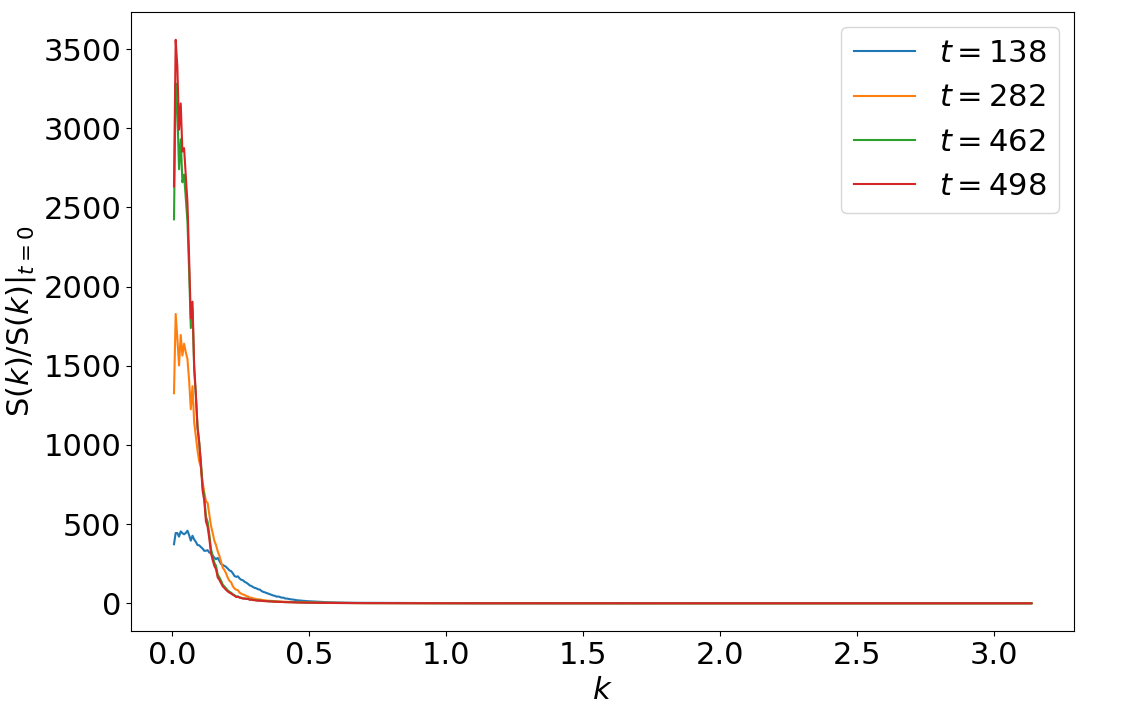
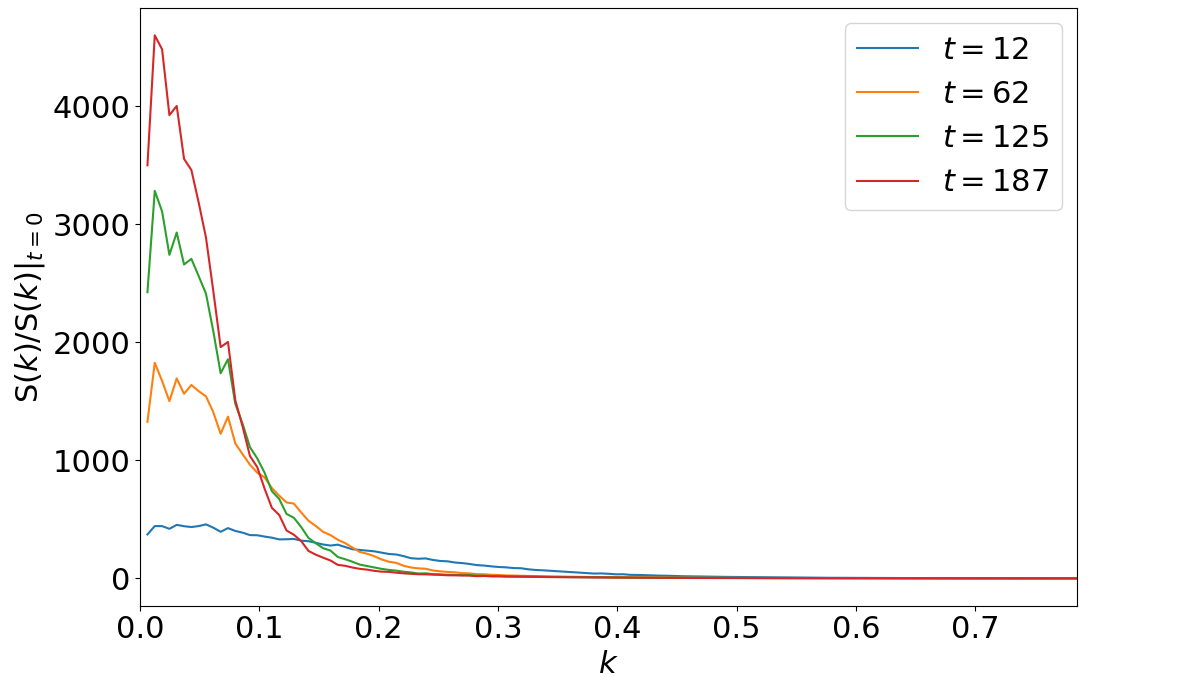
Last Data processed and saved figures
Need to emphasise to Mike and in our discussion that repeats over initial conditions are super important. Results vary a lot.
I checked by hand on N=64 and between 2 runs, results only stop varying to 3dps by 160 repeats or so. But we will have to run with what we have at this point - just report limitations

diff --git a/Codes for combined figures/L vs t combined.py b/Codes for combined figures/L vs t combined.py
@@ -56,6 +56,7 @@ axSn1 = figSn1.gca()
 axSn1.tick_params(labelsize=22)
 axSn1.set_xlabel(r"$k$", fontsize=22)
 axSn1.set_ylabel(r"S($k$)$/$S($k$)$|_{t=0}$", fontsize=22)
+axSn1.set_xlim(0, np.pi/4)
 plotted_ts1 = [1, 5, 10, 15]   # Update once data is produced
 for i in plotted_ts1:   # Update once data is produced
     #time = str(int(nth*(i-1) + t0)) + " MCS"
@@ -69,10 +70,11 @@ axSn2 = figSn2.gca()
 axSn2.tick_params(labelsize=22)
 axSn2.set_xlabel(r"$k$", fontsize=22)
 axSn2.set_ylabel(r"S($k$)$/$S($k$)$|_{t=0}$", fontsize=22)
-plotted_ts2 = [1, 5, 10, 11]   # Update once data is produced
+axSn2.set_xlim(0, np.pi/4)
+plotted_ts2 = [1, 5, 10, 15]   # Update once data is produced
 for i in plotted_ts2:   # Update once data is produced
     #time = str(int(nth*(i-1) + t0)) + " MCS"
-    time2 = str(int(t_vals1[i]))
+    time2 = str(int(t_vals2[i]))
     axSn2.plot(kvals2, avgSk_norm2[:, i], label=r"$t=$"+time2)
 
 
@@ -101,7 +103,6 @@ print(f'with R-value of {np.round(rval2, 4)}')
 print('\n')
 ax.plot(np.log(t_vals2[1:]), c2 + m2* np.log(t_vals2[1:]), '-.b', label=r'GLT gradient={:.4f} $\pm$ {:.4f}'.format(np.round(m2, 4), np.round(std2, 4)))
 
-
 # plot S(k) rescaled for proposed universal scaling relation
 # for MC
 figUni1 = plt.figure(figsize=(10, 7))
@@ -109,6 +110,7 @@ axUni1 = figUni1.gca()
 axUni1.tick_params(labelsize=22)
 axUni1.set_xlabel(r"$kt^{\frac{1}{z}}$", fontsize=22)
 axUni1.set_ylabel(r"$\frac{S(k) t^{-2/z} }{S(k)|_{t=0}}$", fontsize=22)
+axUni1.set_xlim(0, (np.pi/4)*t_vals1[-1]**m1)
 
 for i in plotted_ts1:
     #time = str(int(nth*(i-1) + t0)) + " MCS"
@@ -121,16 +123,46 @@ axUni2 = figUni2.gca()
 axUni2.tick_params(labelsize=22)
 axUni2.set_xlabel(r"$kt^{\frac{1}{z}}$", fontsize=22)
 axUni2.set_ylabel(r"$\frac{S(k) t^{-2/z} }{S(k)|_{t=0}}$", fontsize=22)
-
+axUni2.set_xlim(0, (np.pi/4)*t_vals2[-1]**m2)
 for i in plotted_ts2:
     #time = str(int(nth*(i-1) + t0)) + " MCS"
     time2 = str(int(t_vals2[i]))
     axUni2.plot(kvals2*t_vals2[i]**m2, avgSk_norm2[:, i]/t_vals2[i]**(2*m2), label=r"$t=$"+time2)
 
 
+# Plot with gradient of 0.5:
+m1, m2 = 0.5, 0.5
+# plot S(k) rescaled for proposed universal scaling relation
+# for MC
+figUni05a = plt.figure(figsize=(10, 7))
+axUni05a = figUni05a.gca()
+axUni05a.tick_params(labelsize=22)
+axUni05a.set_xlabel(r"$kt^{\frac{1}{2}}$", fontsize=22)
+axUni05a.set_ylabel(r"$\frac{S(k) t^{-1} }{S(k)|_{t=0}}$", fontsize=22)
+axUni05a.set_xlim(0, (np.pi/4)*t_vals1[-1]**m1)
+
+for i in plotted_ts1:
+    #time = str(int(nth*(i-1) + t0)) + " MCS"
+    time1 = str(int(t_vals1[i])) + " MCS"
+    axUni05a.plot(kvals1*t_vals1[i]**m1, avgSk_norm1[:, i]/t_vals1[i]**(2*m1), label=r"$t=$"+time1)
+
+
+figUni05b = plt.figure(figsize=(10, 7))
+axUni05b = figUni05b.gca()
+axUni05b.tick_params(labelsize=22)
+axUni05b.set_xlabel(r"$kt^{\frac{1}{2}}$", fontsize=22)
+axUni05b.set_ylabel(r"$\frac{S(k) t^{-1} }{S(k)|_{t=0}}$", fontsize=22)
+axUni05b.set_xlim(0, (np.pi/4)*t_vals2[-1]**m2)
+for i in plotted_ts2:
+    #time = str(int(nth*(i-1) + t0)) + " MCS"
+    time2 = str(int(t_vals2[i]))
+    axUni05b.plot(kvals2*t_vals2[i]**m2, avgSk_norm2[:, i]/t_vals2[i]**(2*m2), label=r"$t=$"+time2)
+
+
 axSn1.legend(fontsize=22)
 axUni1.legend(fontsize=22)
 axSn2.legend(fontsize=22)
 axUni2.legend(fontsize=22)
-
+axUni05a.legend(fontsize=22)
+axUni05b.legend(fontsize=22)
 ax.legend(fontsize=22)

diff --git a/Codes for combined figures/convergence.py b/Codes for combined figures/convergence.py
@@ -20,10 +20,15 @@ exponents = exponents.to_numpy()[:, 0]
 exp_errs = pd.read_excel("Data\MC\convergence_exp_errs.xlsx", index_col=0)
 exp_errs = exp_errs.to_numpy()[:, 0]
 
+# later added lower N datapoint for MC:
+Ns = np.append(np.array([32]), Ns)
+exponents = np.append(np.array([0.33119524]), exponents)
+exp_errs = np.append(np.array([0.00697884]), exp_errs)
+
 # Read in GLT data set
-zlist2 = np.loadtxt("Data\GLT\model A 1/z values.txt")
-zerr2 = np.loadtxt("Data\GLT\model A 1/z error bars.txt")
-Ns2 = np.loadtxt("Data\GLT\model A 1/z system sizes.txt")
+zlist2 = np.loadtxt("Data\GLT\model A 1.z values.txt")
+zerr2 = np.loadtxt("Data\GLT\model A 1.z value error bars.txt")
+Ns2 = np.loadtxt("Data\GLT\model A 1.z system sizes.txt")
 
 # plot it as a function of t
 fig = plt.figure(figsize=(10, 7))
